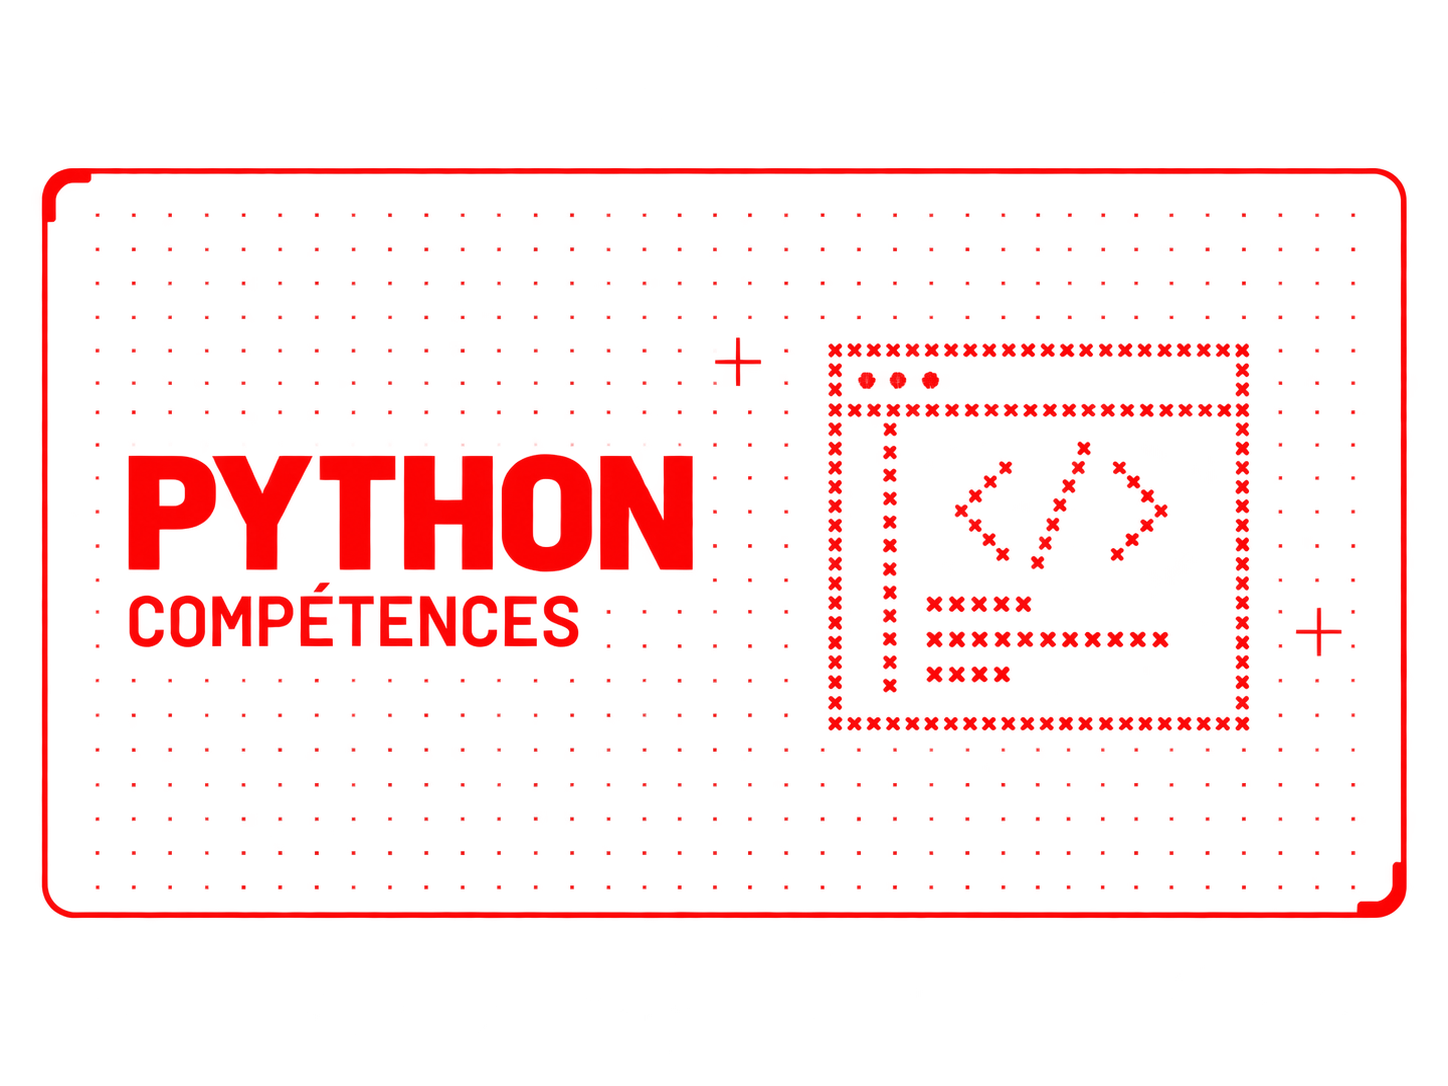
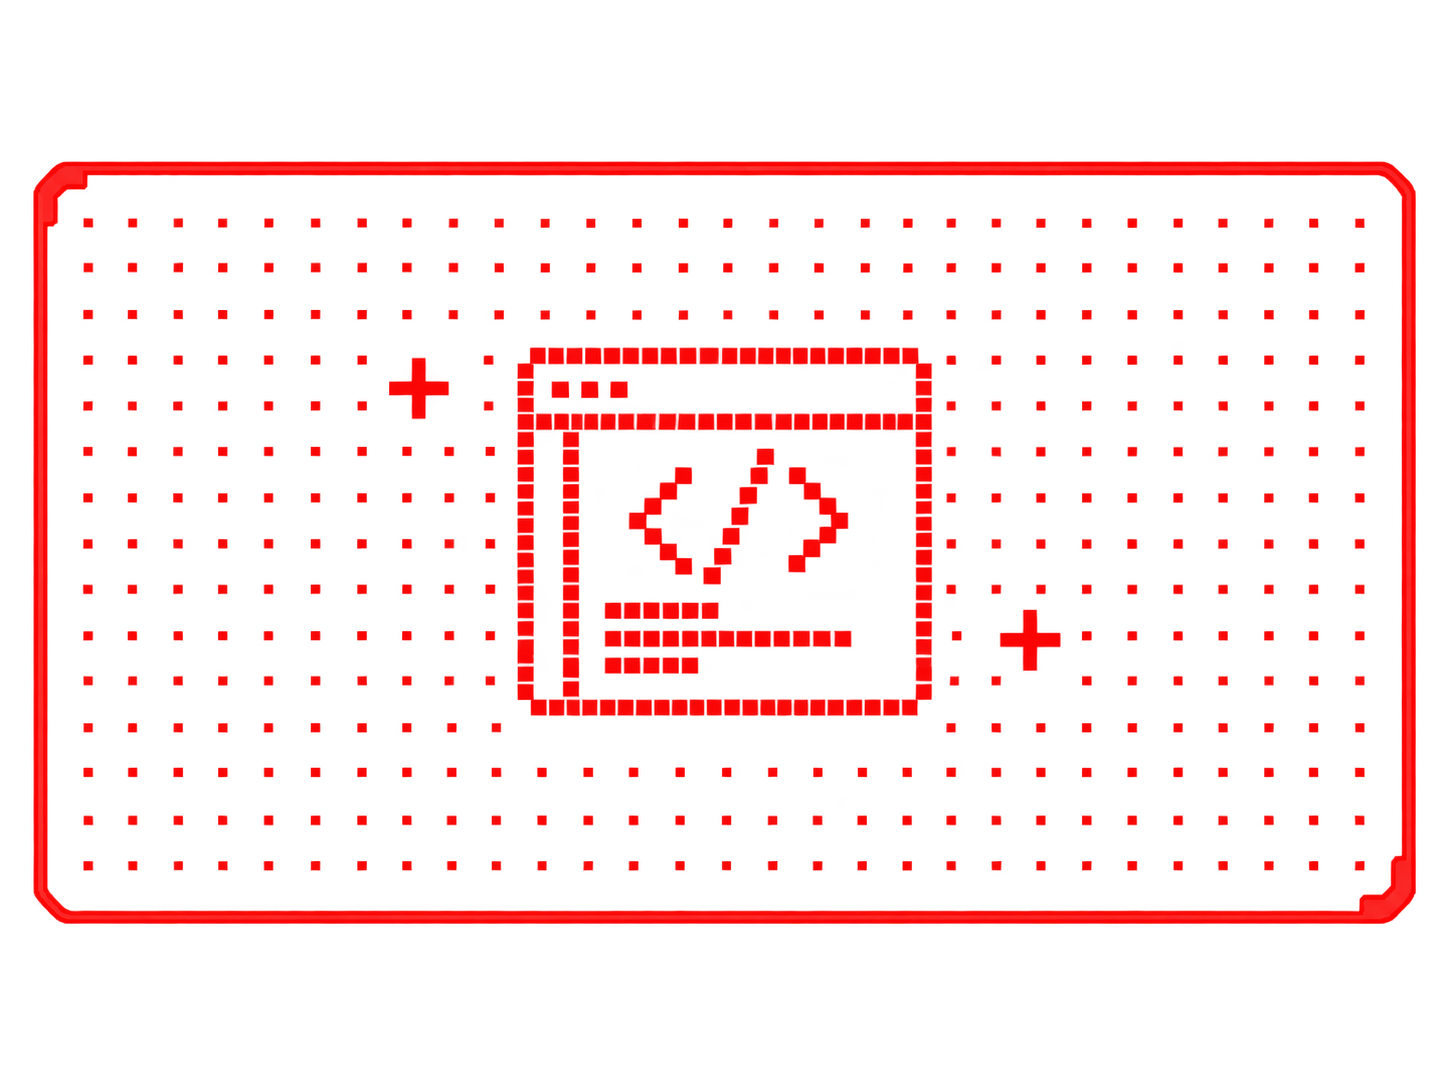
correctifs

Changed region(s): [[0.0622, 0.3039, 0.9323, 0.6989], [0.0, 0.1215, 0.9945, 0.8508], [0.0622, 0.6989, 0.0932, 0.7293]]

diff --git a/index.html b/index.html
@@ -707,18 +707,17 @@
                         class="project-image"
                     >
 
-                    <h3>Python</h3>
+                    <h3>Python & Web</h3>
 
                     <p>
-                        Développement de projets pour renforcer
-                        ma logique de programmation, la gestion des fonctions,
-                        des conditions, des boucles et des structures de données.
+                        Développement de projets en Python et création d'interfaces web
+                        en HTML, CSS et JavaScript, avec une attention portée à la logique,
+                        au responsive design et à l'interactivité.
                     </p>
 
                     <p>
-                        Compétences développées :
-                        logique algorithmique, organisation du code,
-                        débogage et résolution de problèmes.
+                        Compétences développées : algorithmique, fonctions et structures
+                        de données, DOM, animations, débogage et organisation du code.
                     </p>
 
                 </div>

diff --git a/index-en.html b/index-en.html
@@ -707,18 +707,17 @@
                         class="project-image"
                     >
 
-                    <h3>Python</h3>
+                    <h3>Python & Web</h3>
 
                     <p>
-                        Development of projects designed to strengthen
-                        my programming logic and my understanding of functions,
-                        conditions, loops and data structures.
+                        Development of Python projects and web interfaces
+                        using HTML, CSS and JavaScript, with a focus on logic,
+                        responsive design and interactivity.
                     </p>
 
                     <p>
-                        Skills developed:
-                        algorithmic thinking, code organization,
-                        debugging and problem-solving.
+                        Skills developed: algorithms, functions and data structures,
+                        DOM manipulation, animations, debugging and code organization.
                     </p>
 
                 </div>
